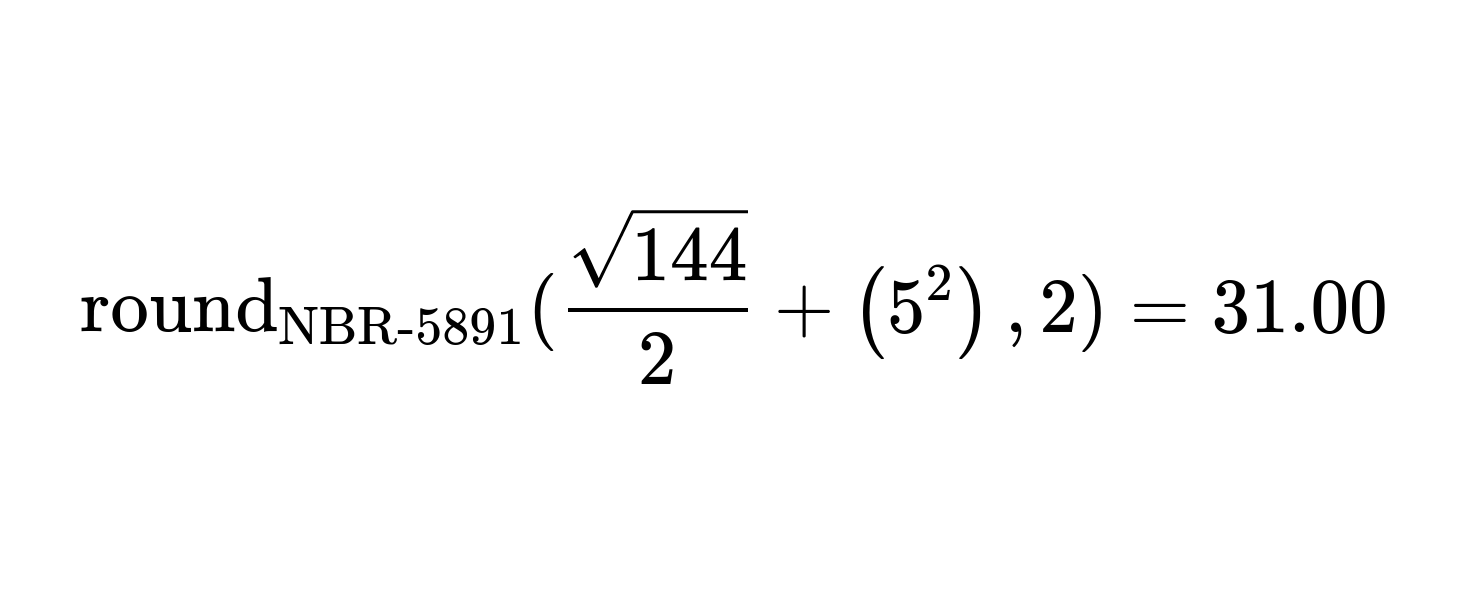
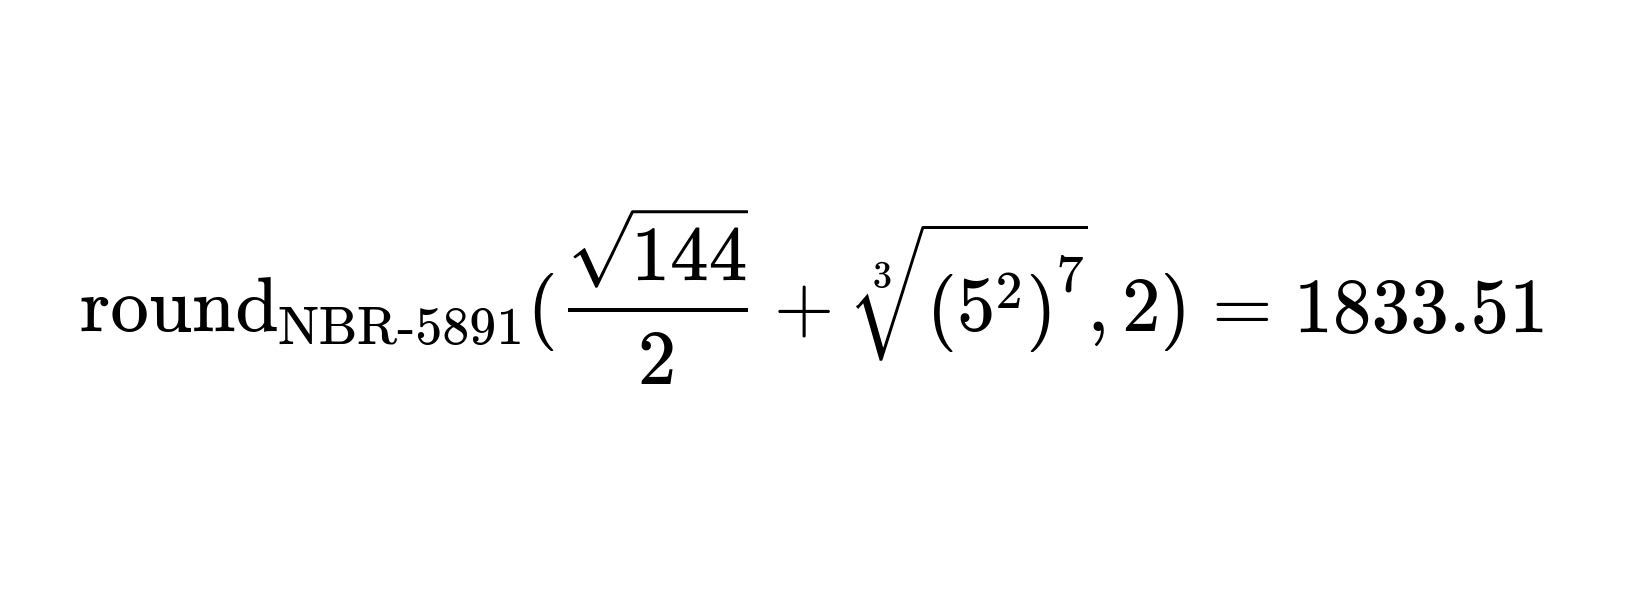
UPDATE: Move 'processBatch' for individual import

diff --git a/src/utils/batch.ts b/src/utils/batch.ts
@@ -7,29 +7,40 @@
  */
 
 /**
- * Opções para configuração do processamento em lote.
+ * Opções para configuração do processamento em lote (Batch Processing).
+ *
+ * **Engenharia:** Projetado para suportar volumes industriais de dados sem comprometer
+ * a responsividade do sistema (Event Loop).
+ *
  * @template ResultType - O tipo do valor resultante de cada tarefa ou do acúmulo final.
  */
 export interface BatchOptions<ResultType = unknown> {
     /**
      * Tamanho de cada lote antes de ceder a execução (yielding).
+     *
+     * **Yielding:** A cada N itens, o utilitário pausa brevemente para permitir que o
+     * Event Loop processe outras tarefas (I/O, requisições HTTP).
      * @default 1000
      */
     batchSize?: number;
     /**
      * Número de fluxos concorrentes (Workers Lógicos).
-     * Se > 0, os itens serão divididos em chunks processados paralelamente.
+     *
+     * **Paralelismo:** Se > 1, divide o array original em chunks e os processa
+     * simultaneamente usando `Promise.all`. Ideal para tarefas pesadas de CPU.
      * @default 0
      */
     logicalWorkers?: number;
     /**
-     * Valor inicial para o acúmulo.
+     * Valor inicial para o acúmulo (usado com o reducer).
      * Obrigatório se um `reducer` for fornecido.
      */
     accumulator?: ResultType;
     /**
-     * Função para combinar resultados de forma eficiente.
-     * Se presente, o `processBatch` retornará um único valor do tipo `ResultType`.
+     * Função para combinar resultados de forma eficiente (Pattern Reducer).
+     *
+     * Se presente, o `ProcessBatchAUY` retornará um único valor acumulado,
+     * economizando memória ao não manter um array gigante de resultados.
      */
     reducer?: (accumulator: ResultType, current: ResultType) => ResultType;
     /**
@@ -39,29 +50,49 @@ export interface BatchOptions<ResultType = unknown> {
 }
 
 /**
- * Processa um array de itens de forma assíncrona e em lotes, com suporte a
- * paralelismo lógico e acúmulo (redução) de massa.
+ * ProcessBatchAUY - Engine de Processamento em Massa com Anti-Bloqueio.
+ *
+ * **Arquitetura Forense:** Este utilitário resolve o problema de cálculos pesados
+ * em ambientes Single Thread (JS/TS). Ele utiliza técnicas de **Yielding** e
+ * **Logical Parallelism** para processar milhões de registros mantendo a latência
+ * de I/O sob controle.
  *
  * @template InputType - Tipo dos dados de entrada no array.
  * @template ResultType - Tipo do resultado gerado por cada tarefa.
  *
- * @param items Array de itens a serem processados.
- * @param task Função a ser executada para cada item (pode ser assíncrona).
- * @param options Configurações de lote, concorrência e acúmulo.
+ * @param items - Array de itens a serem processados.
+ * @param task - Função a ser executada para cada item (pode ser assíncrona).
+ * @param options - Configurações de lote, concorrência e acúmulo.
+ * @returns Um array de resultados ou o valor acumulado final se um reducer for usado.
+ *
+ * @example Exemplo Simples (Array de Resultados)
+ * ```ts
+ * const resultados = await ProcessBatchAUY(lista, async (item) => {
+ *   return item * 2;
+ * });
+ * ```
+ *
+ * @example Consolidação com Reducer (Baixo consumo de RAM)
+ * ```ts
+ * const total = await ProcessBatchAUY(vendas, (v) => v.valor, {
+ *   accumulator: 0,
+ *   reducer: (acc, val) => acc + val
+ * });
+ * ```
  */
-export async function processBatch<InputType, ResultType>(
+export async function ProcessBatchAUY<InputType, ResultType>(
     items: InputType[],
     task: (item: InputType, index: number) => ResultType | Promise<ResultType>,
     options: BatchOptions<ResultType> & { reducer: (acc: ResultType, item: ResultType) => ResultType },
 ): Promise<ResultType>;
 
-export async function processBatch<InputType, ResultType>(
+export async function ProcessBatchAUY<InputType, ResultType>(
     items: InputType[],
     task: (item: InputType, index: number) => ResultType | Promise<ResultType>,
     options?: BatchOptions<ResultType>,
 ): Promise<ResultType[]>;
 
-export async function processBatch<InputType, ResultType>(
+export async function ProcessBatchAUY<InputType, ResultType>(
     items: InputType[],
     task: (item: InputType, index: number) => ResultType | Promise<ResultType>,
     options: BatchOptions<ResultType> = {},

diff --git a/mini-scripts/image-generation-poc/test_image_generation.ts b/mini-scripts/image-generation-poc/test_image_generation.ts
@@ -1,8 +1,7 @@
-
 import { CalcAUY } from "@calc-auy";
 import katex from "katex";
 import puppeteer from "puppeteer";
-import { join, dirname, fromFileUrl } from "@std/path";
+import { dirname, fromFileUrl, join } from "@std/path";
 
 const __dirname = dirname(fromFileUrl(import.meta.url));
 
@@ -12,7 +11,7 @@ async function testPngGeneration() {
     const calculation = CalcAUY.from(144)
         .pow("1/2")
         .div(2)
-        .add(CalcAUY.from(5).pow(2))
+        .add(CalcAUY.from(5).pow(2)).pow("7/3")
         .commit({ roundStrategy: "NBR5891" });
 
     const html = calculation.toHTML(katex, { decimalPrecision: 2 });
@@ -34,17 +33,16 @@ async function testPngGeneration() {
         `);
 
         // Pequena pausa para garantir o parse do CSS inlined
-        await new Promise(r => setTimeout(r, 500));
+        await new Promise((r) => setTimeout(r, 500));
 
         console.log("📸 Gerando screenshot...");
         const element = await page.$("#target");
         const outputPath = join(__dirname, "test_result.png");
-        
+
         if (element) {
             await element.screenshot({ path: outputPath });
             console.log(`✅ Sucesso: ${outputPath}`);
         }
-
     } finally {
         await browser.close();
         console.log("🏁 Processo finalizado.");
@@ -52,7 +50,7 @@ async function testPngGeneration() {
 }
 
 if (import.meta.main) {
-    testPngGeneration().catch(e => {
+    testPngGeneration().catch((e) => {
         console.error("❌ Erro fatal:", e.message);
         Deno.exit(1);
     });

diff --git a/tests/batch.test.ts b/tests/batch.test.ts
@@ -1,11 +1,12 @@
 import { describe, it } from "@std/testing/bdd";
 import { expect } from "@std/expect";
 import { CalcAUY } from "@src/builder.ts";
+import { ProcessBatchAUY } from "@src/utils/batch.ts";
 
 describe("CalcAUY - Batch Processing", () => {
     it("deve processar um lote de itens corretamente", async () => {
         const items = [10, 20, 30, 40, 50];
-        const results = await CalcAUY.processBatch(items, (val) => {
+        const results = await ProcessBatchAUY(items, (val) => {
             return CalcAUY.from(val).add(5).commit().toFloatNumber();
         }, { batchSize: 2 });
 
@@ -16,7 +17,7 @@ describe("CalcAUY - Batch Processing", () => {
         const items = Array.from({ length: 10 }).map((_, i) => i);
         const progressReports: number[] = [];
 
-        await CalcAUY.processBatch(items, (val) => val, {
+        await ProcessBatchAUY(items, (val) => val, {
             batchSize: 2,
             onProgress: (p) => progressReports.push(p),
         });
@@ -31,7 +32,7 @@ describe("CalcAUY - Batch Processing", () => {
 
     it("deve funcionar com grandes volumes sem erros de integridade", async () => {
         const items = Array.from({ length: 5000 }).map(() => "1.5");
-        const results = await CalcAUY.processBatch(items, (val) => {
+        const results = await ProcessBatchAUY(items, (val) => {
             return CalcAUY.from(val).mult(2).commit().toStringNumber({ decimalPrecision: 1 });
         }, { batchSize: 1000 });
 

diff --git a/src/builder.ts b/src/builder.ts
@@ -24,7 +24,6 @@ import { Parser } from "./parser/parser.ts";
 import { attachOp, validateASTNode } from "./ast/builder_utils.ts";
 import { getSubLogger } from "./utils/logger.ts";
 import { sanitizeAST, setGlobalLoggingPolicy } from "./utils/sanitizer.ts";
-import { type BatchOptions, processBatch } from "./utils/batch.ts";
 
 const logger = getSubLogger("engine");
 
@@ -221,26 +220,6 @@ export class CalcAUY {
         validateASTNode(node);
 
         return new CalcAUY(node);
-    }
-
-    /**
-     * Processa um array de itens de forma assíncrona e em lotes, com suporte a
-     * paralelismo lógico (workers) e acúmulo (redução) nativo.
-     *
-     * **Engenharia:** Evita o bloqueio do Event Loop em cálculos massivos. O suporte
-     * a `logicalWorkers` permite processar chunks do array concorrentemente,
-     * enquanto o `reducer` permite realizar somas/reduções de forma otimizada.
-     *
-     * @param items Array de dados.
-     * @param task Função de transformação/cálculo.
-     * @param options Configuração do lote (batchSize, logicalWorkers, reducer).
-     */
-    public static async processBatch<InputType, ResultType>(
-        items: InputType[],
-        task: (item: InputType, index: number) => ResultType | Promise<ResultType>,
-        options?: BatchOptions<ResultType>,
-    ): Promise<ResultType[] | ResultType> {
-        return await processBatch(items, task, options);
     }
 
     /**

diff --git a/tests/batch_transformation.test.ts b/tests/batch_transformation.test.ts
@@ -1,4 +1,5 @@
 import { CalcAUY } from "@calcauy";
+import { ProcessBatchAUY } from "@src/utils/batch.ts";
 import { CalcAUYOutput } from "@src/output.ts";
 import { assertEquals } from "@std/assert";
 
@@ -14,7 +15,7 @@ Deno.test("Demonstração: Transformação de Massa vs. Consolidação com proce
      * Objetivo: Processar cada fatura individualmente para obter o rastro de auditoria.
      * Útil para: Salvar no banco de dados cada item calculado separadamente.
      */
-    const resultadosIndividuais = await CalcAUY.processBatch(faturasBrutas, (fatura) => {
+    const resultadosIndividuais = await ProcessBatchAUY(faturasBrutas, (fatura) => {
         return CalcAUY.from(fatura.valor)
             .mult(CalcAUY.from(1).add(fatura.taxa))
             .setMetadata("invoice_id", fatura.id)
@@ -40,7 +41,7 @@ Deno.test("Demonstração: Transformação de Massa vs. Consolidação com proce
      * Objetivo: Obter apenas o Valor Total Geral das faturas processadas.
      * Útil para: Relatórios de fechamento ou validação de totais.
      */
-    const valorTotalGeral = await CalcAUY.processBatch(faturasBrutas, (fatura) => {
+    const valorTotalGeral = await ProcessBatchAUY(faturasBrutas, (fatura) => {
         // Cada tarefa retorna um objeto CalcAUY pronto para ser somado
         return CalcAUY.from(fatura.valor).mult(CalcAUY.from(1).add(fatura.taxa));
     }, {

diff --git a/tests/stress.test.ts b/tests/stress.test.ts
@@ -1,6 +1,7 @@
 import { describe, it } from "@std/testing/bdd";
 import { expect } from "@std/expect";
 import { CalcAUY } from "@calcauy";
+import { ProcessBatchAUY } from "@src/utils/batch.ts";
 
 describe("CalcAUY - Testes de Estresse e Performance Extrema", () => {
     const results: Record<string, string> = {};
@@ -110,7 +111,7 @@ describe("CalcAUY - Testes de Estresse e Performance Extrema", () => {
         const items = Array.from({ length: TOTAL_TASKS }).map((_, i) => i);
 
         // Processa as mesmas 100.000 tarefas, mas em lotes de 5.000 com yielding
-        await CalcAUY.processBatch(items, (i) => {
+        await ProcessBatchAUY(items, (i) => {
             return CalcAUY.from(i).add(10).mult("1.15").commit();
         }, {
             batchSize: 1000,

diff --git a/tests/massive_transformation.test.ts b/tests/massive_transformation.test.ts
@@ -1,4 +1,5 @@
 import { CalcAUY } from "@calcauy";
+import { ProcessBatchAUY } from "@src/utils/batch.ts";
 import { CalcAUYOutput } from "@src/output.ts";
 import { assertEquals } from "@std/assert";
 import { describe, it } from "@std/testing/bdd";
@@ -11,7 +12,7 @@ describe("Benchmark Massivo: Transformação de Dados", () => {
         const input = Array.from({ length: TOTAL_ITEMS }, (_, i) => i);
         const start = performance.now();
 
-        const resultados = await CalcAUY.processBatch(input, (num: number) => {
+        const resultados = await ProcessBatchAUY(input, (num: number) => {
             return CalcAUY.from(num).add(1).group().mult(2).commit();
         }, {
             batchSize: 10000,

diff --git a/tests/massive_io_sim.test.ts b/tests/massive_io_sim.test.ts
@@ -1,4 +1,5 @@
 import { CalcAUY } from "@calcauy";
+import { ProcessBatchAUY } from "@src/utils/batch.ts";
 import { assertEquals } from "@std/assert";
 import { describe, it } from "@std/testing/bdd";
 
@@ -25,7 +26,7 @@ describe("Simulação de I/O Massivo (Cálculo + Persistência)", () => {
         }));
 
         const start = performance.now();
-        await CalcAUY.processBatch(faturasBrutas, async (fatura) => {
+        await ProcessBatchAUY(faturasBrutas, async (fatura) => {
             const res = CalcAUY.from(fatura.valor).mult("1.05").commit();
             await MockDB.save({ id: fatura.id, total: res.toStringNumber() });
             return null;

diff --git a/tests/sqlite_massive.test.ts b/tests/sqlite_massive.test.ts
@@ -1,4 +1,5 @@
 import { CalcAUY } from "@calcauy";
+import { ProcessBatchAUY } from "@src/utils/batch.ts";
 import { assertEquals } from "@std/assert";
 import { DB } from "@sqlite";
 import { describe, it } from "@std/testing/bdd";
@@ -22,7 +23,7 @@ describe("Benchmark Real: CalcAUY + SQLite (Não Otimizado)", () => {
 
         const start = performance.now();
 
-        await CalcAUY.processBatch(faturasBrutas, async (fatura) => {
+        await ProcessBatchAUY(faturasBrutas, async (fatura) => {
             const res = CalcAUY.from(fatura.valor).mult("1.05").commit();
 
             // Inserção individual sem transação explícita (Lento por design)

diff --git a/tests/sqlite_optimized.test.ts b/tests/sqlite_optimized.test.ts
@@ -1,4 +1,5 @@
 import { CalcAUY } from "@calcauy";
+import { ProcessBatchAUY } from "@src/utils/batch.ts";
 import { assertEquals } from "@std/assert";
 import { DB } from "@sqlite";
 import { describe, it } from "@std/testing/bdd";
@@ -28,7 +29,7 @@ describe("Benchmark Real: CalcAUY + SQLite (Otimizado)", () => {
         const start = performance.now();
         db.execute("BEGIN TRANSACTION");
 
-        await CalcAUY.processBatch(faturasBrutas, (fatura) => {
+        await ProcessBatchAUY(faturasBrutas, (fatura) => {
             const res = CalcAUY.from(fatura.valor).mult("1.05").commit();
             query.execute([
                 fatura.id,

diff --git a/tests/stress_bench.test.ts b/tests/stress_bench.test.ts
@@ -1,4 +1,5 @@
 import { CalcAUY } from "@calcauy";
+import { ProcessBatchAUY } from "@src/utils/batch.ts";
 import { assertEquals } from "@std/assert";
 import { describe, it } from "@std/testing/bdd";
 
@@ -10,7 +11,7 @@ describe("Benchmark: Acúmulo Massivo (Reducer)", () => {
 
         const items = Array.from({ length: TOTAL_OBJECTS }, (_, i) => i);
 
-        const result = await CalcAUY.processBatch(items, (i: number) => {
+        const result = await ProcessBatchAUY(items, (i: number) => {
             return CalcAUY.from(i).add(1);
         }, {
             batchSize: 5000,

diff --git a/mod.ts b/mod.ts
@@ -32,8 +32,10 @@
  */
 
 export { CalcAUY } from "./src/builder.ts";
+export { ProcessBatchAUY } from "./src/utils/batch.ts";
 export { CalcAUYOutput } from "./src/output.ts";
 export { CalcAUYError } from "./src/core/errors.ts";
 export type { ICalcAUYCustomOutput } from "./src/output.ts";
 export type { CalcAUYLocaleA11y } from "./src/i18n/i18n.ts";
 export type { OutputOptions } from "./src/core/types.ts";
+export type { BatchOptions } from "./src/utils/batch.ts";
